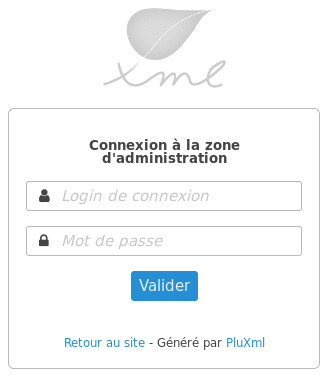
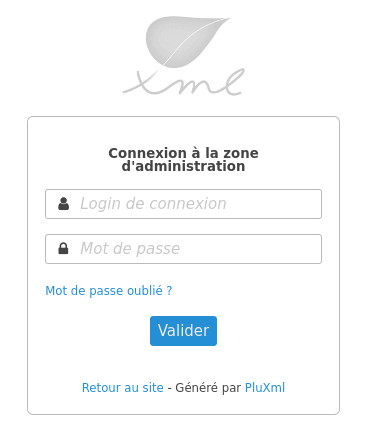
[pluxml 5.8] maj installattion

diff --git a/docs/installer/installation.md b/docs/installer/installation.md
@@ -157,7 +157,7 @@ Le login de connexion et le mot de passe sont ceux que vous avez définis lors d
 
 # Réinitialiser le mot de passe admin
 
-La procédure suivante, vous permettra de réinitialiser votre mot de passe admin.
+La procédure suivante, vous permettra de réinitialiser votre mot de passe admin, dans le cas ou la procédure "mot de passe" oublié via l'envoi d'un e-mail n'a pas fonctionné.
 
 __Récupérer un nouveau mot de passe__
 
